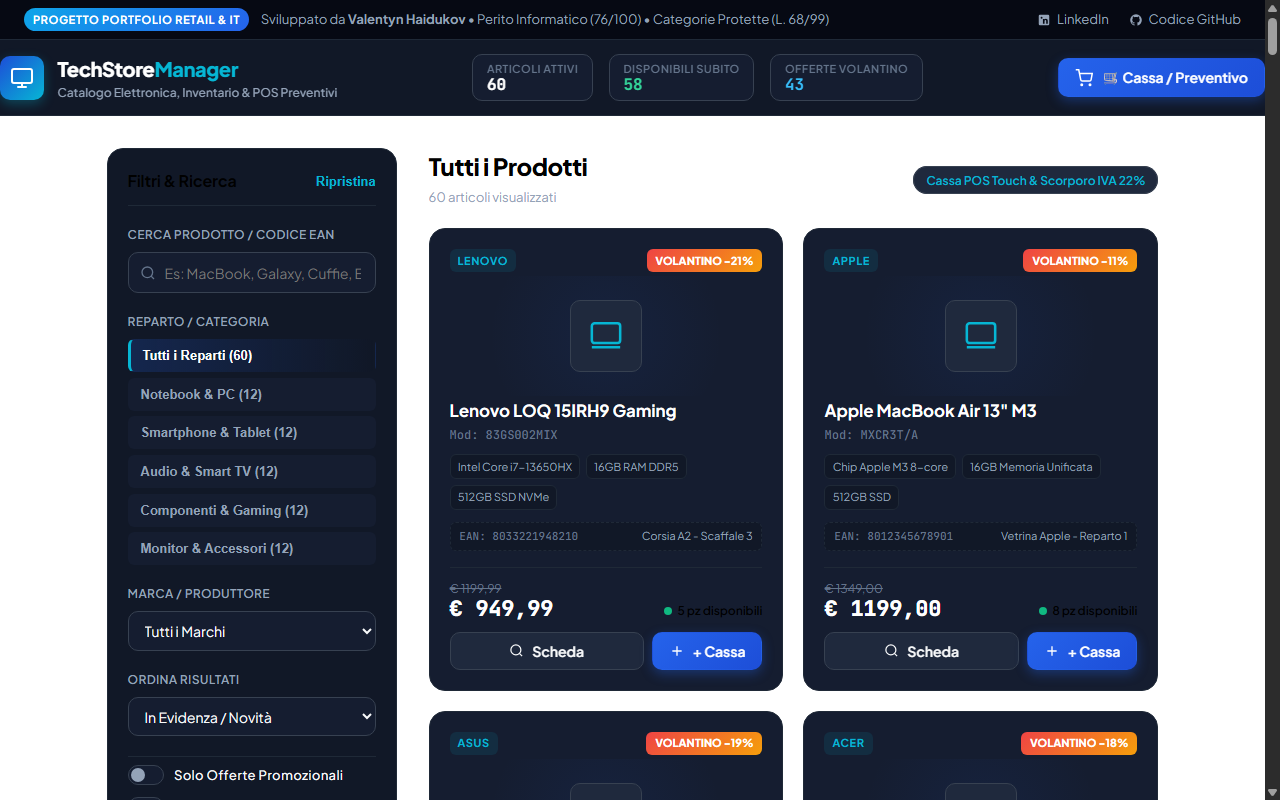
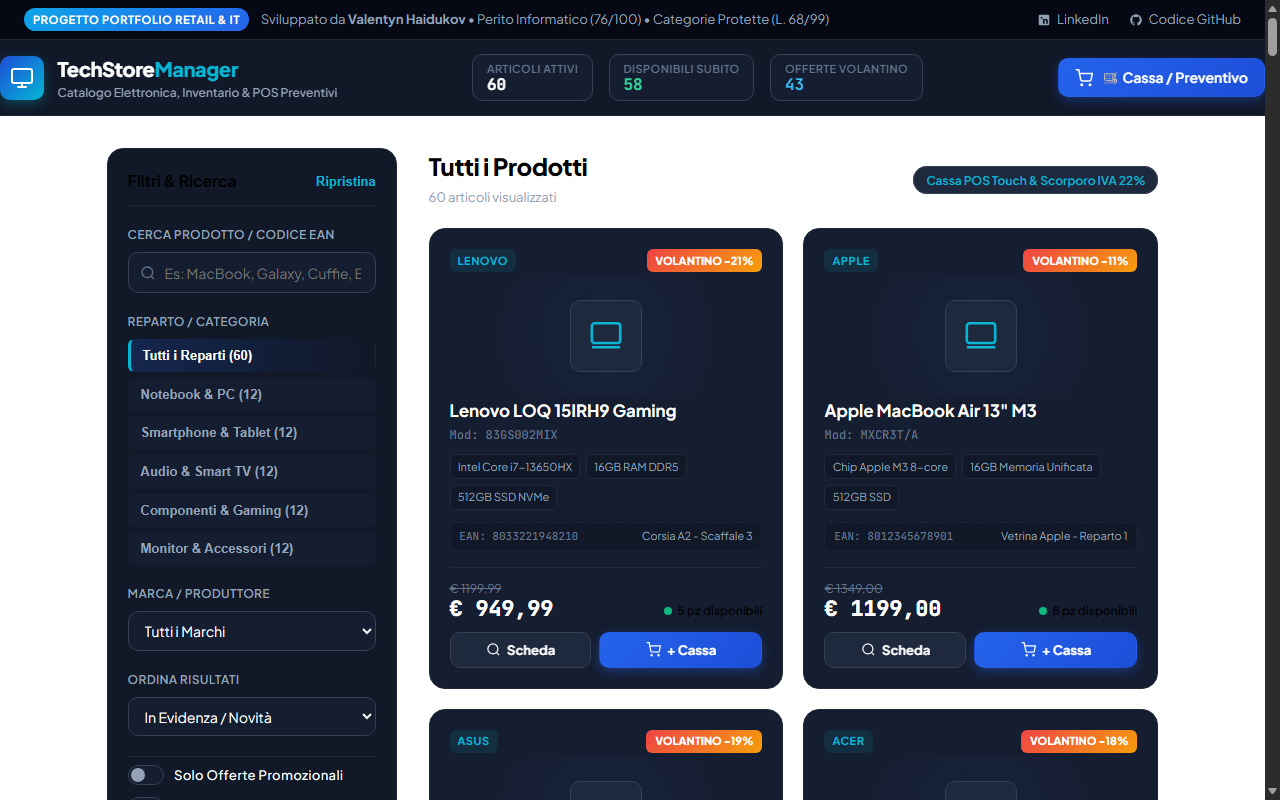
Add files via upload

diff --git a/app.js b/app.js
@@ -2119,10 +2119,11 @@ function renderProducts() {
               Scheda
             </button>
             <button class="btn btn-primary" onclick="addToCart(${p.id})" ${isOutOfStock ? 'disabled title="Esaurito a magazzino"' : 'title="Aggiungi alla Cassa POS"'}>
-              <svg width="16" height="16" viewBox="0 0 24 24" fill="none" stroke="currentColor" stroke-width="2">
-                <path d="M12 5v14M5 12h14"/>
+              <svg width="15" height="15" viewBox="0 0 24 24" fill="none" stroke="currentColor" stroke-width="2">
+                <circle cx="9" cy="21" r="1"/><circle cx="20" cy="21" r="1"/>
+                <path d="M1 1h4l2.68 13.39a2 2 0 0 0 2 1.61h9.72a2 2 0 0 0 2-1.61L23 6H6"/>
               </svg>
-              ${isOutOfStock ? 'Esaurito' : '+ Cassa'}
+              <span>${isOutOfStock ? 'Esaurito' : '+ Cassa'}</span>
             </button>
           </div>
         </div>

diff --git a/index.html b/index.html
@@ -17,7 +17,7 @@
   <link rel="preconnect" href="https://fonts.gstatic.com" crossorigin>
   <link href="https://fonts.googleapis.com/css2?family=Plus+Jakarta+Sans:wght@400;500;600;700;800&family=JetBrains+Mono:wght@500;700;800&display=swap" rel="stylesheet">
 
-  <link rel="stylesheet" href="style.css?v=4.0">
+  <link rel="stylesheet" href="style.css?v=4.2">
 </head>
 <body>
 
@@ -432,6 +432,6 @@
     </div>
   </footer>
 
-  <script src="app.js?v=4.0"></script>
+  <script src="app.js?v=4.2"></script>
 </body>
 </html>

diff --git a/style.css b/style.css
@@ -787,8 +787,20 @@ body {
 /* Card Action Buttons */
 .card-actions {
   display: grid;
-  grid-template-columns: 1fr auto;
+  grid-template-columns: 1fr 1.15fr;
   gap: 0.5rem;
+}
+
+.card-actions .btn {
+  padding: 0.55rem 0.65rem;
+  font-size: 0.8125rem;
+  font-weight: 700;
+  display: flex;
+  align-items: center;
+  justify-content: center;
+  gap: 0.4rem;
+  border-radius: var(--radius-md);
+  white-space: nowrap;
 }
 
 /* Modal Styles */
